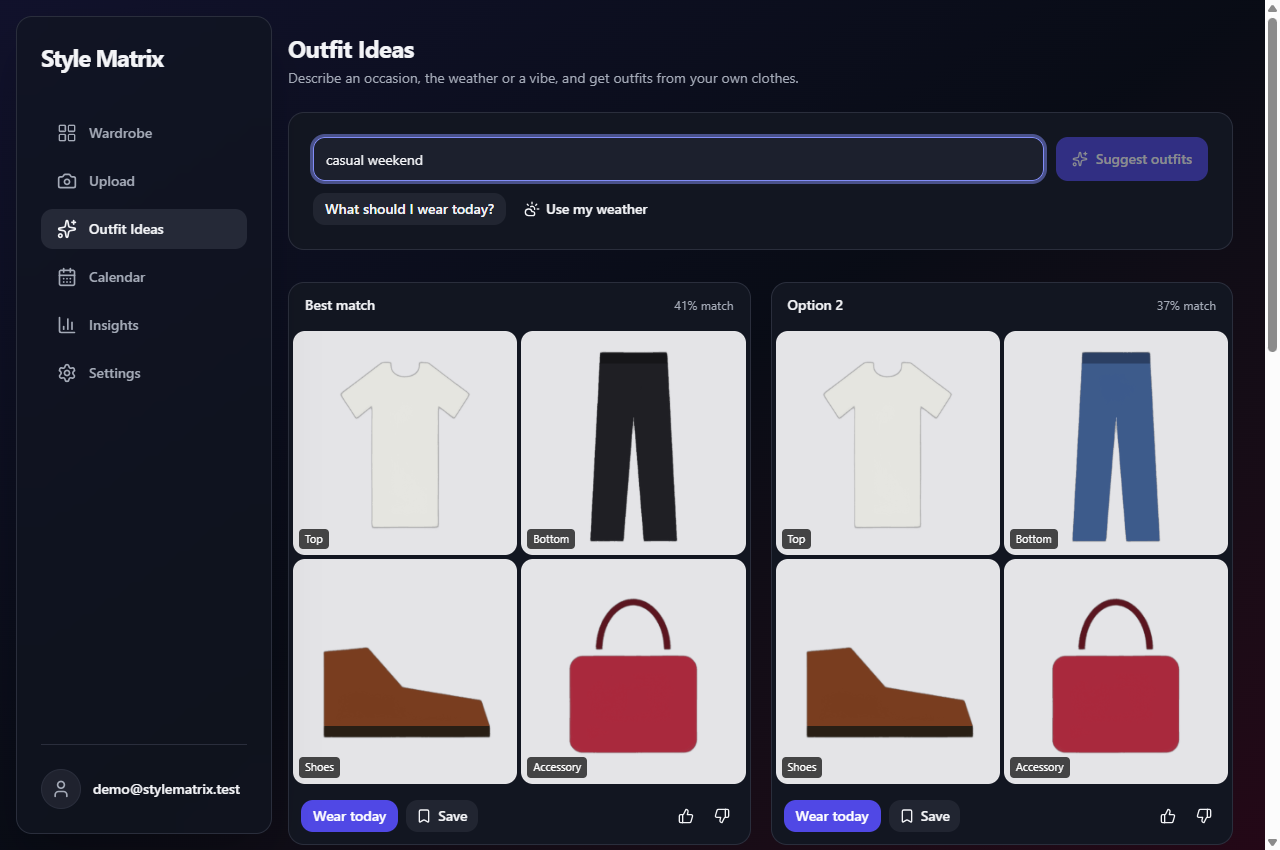
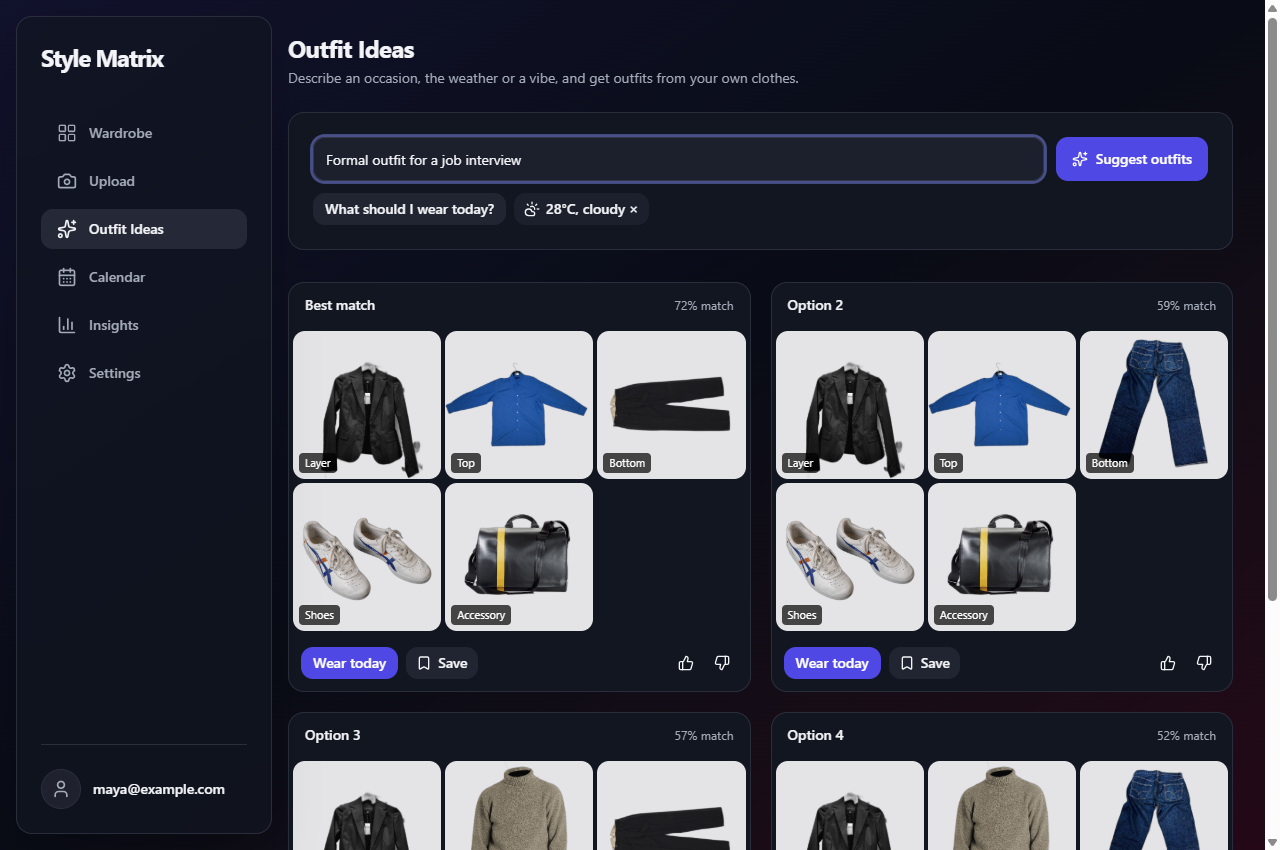
Rewrite the README around a real use case
Walk through one person's morning, from adding clothes to reviewing
insights, using screenshots with real clothing photos, and credit
each photo.

diff --git a/README.md b/README.md
@@ -2,12 +2,12 @@
 
 **An AI wardrobe assistant.** Photograph your clothes, and Style Matrix sorts them into categories, tracks what is in the wash, and suggests outfits from a plain-text prompt such as *"casual weekend"*.
 
-![Style Matrix outfit suggestions](docs/images/outfit-ideas.png)
+![Style Matrix suggesting outfits for a job interview](docs/images/outfit-ideas.png)
 
 ## Contents
 
 - [Features](#features)
-- [Screenshots](#screenshots)
+- [A day with Style Matrix](#a-day-with-style-matrix)
 - [Architecture](#architecture)
 - [How it works](#how-it-works)
 - [AI models](#ai-models)
@@ -19,6 +19,7 @@
 - [Deployment](#deployment)
 - [Training the models](#training-the-models)
 - [Known limitations](#known-limitations)
+- [Photo credits](#photo-credits)
 - [Contributors](#contributors)
 
 ## Features
@@ -39,35 +40,70 @@
 | **Works on phones** | The sidebar becomes a bottom navigation bar on small screens. |
 | **Accounts and profiles** | Email login and profile settings through Supabase. |
 
-## Screenshots
+## A day with Style Matrix
 
-The screenshots use simple drawn sample images, not real clothing photos.
+Maya has a job interview this morning and a closet full of clothes she barely remembers buying. Maya is a made-up example, but every result below is what the app really produced for these photos.
 
-### Sign in
+### 1. She adds her clothes
 
-![Sign in page](docs/images/login.png)
+Maya photographs 12 items and drops the photos in. Each one gets its background removed, is sorted into a category, and is added to her wardrobe, with progress shown for each photo.
 
-### Wardrobe
+![Photos being uploaded, with progress for each one](docs/images/upload.png)
 
-Items appear with their predicted category. Tabs switch between *Available* and *In the Wash*, and the buttons filter by type.
+### 2. Her closet is ready to browse
 
-![Wardrobe page](docs/images/wardrobe.png)
+Her clothes appear on clean, matching backgrounds. Tabs separate what's clean from what's in the wash, and the buttons filter by type.
 
-### Upload
+![Wardrobe page with clothes on clean backgrounds](docs/images/wardrobe.png)
 
-![Upload page](docs/images/upload.png)
+### 3. She fixes what the AI got wrong
 
-### Calendar
+The app labelled 8 of the 12 photos correctly on its first try. It called her blue jeans a skirt and her blue shirt a tee, for example. Fixing a label takes a few seconds, and it changes which outfits she gets. She can also add a price here, which is used to work out cost per wear.
 
-![Outfit calendar page](docs/images/calendar.png)
+![Correcting an item's category to Jeans](docs/images/edit-item.png)
 
-### Insights
+### 4. She asks what to wear
 
-![Wardrobe insights page](docs/images/insights.png)
+Maya types *"Formal outfit for a job interview"* and shares her weather, which is 28°C and cloudy. The best match is her blue shirt, black trousers and blazer. The blazer is there because the prompt calls for a layer. The sneakers are the only shoes she has added, so a suggestion can only be as good as the closet behind it.
 
-### Profile settings
+![Ranked outfit suggestions for a job interview](docs/images/outfit-ideas.png)
 
-![Profile settings page](docs/images/settings.png)
+### 5. She logs what she wears
+
+One tap on **Wear today** records the outfit, and **Undo** is there if she tapped it by mistake.
+
+![Message confirming the outfit was logged, with an Undo button](docs/images/wear-today.png)
+
+Those clothes move to *In the Wash* and stay out of suggestions for 5 days. If she washes something sooner, she can mark it as washed.
+
+![In the Wash tab with a Mark as washed button on each item](docs/images/in-the-wash.png)
+
+### 6. She looks back
+
+The calendar shows what she wore on each day, and her favourite combinations are one tap away as saved outfits.
+
+![Outfit calendar and saved outfits](docs/images/calendar.png)
+
+Insights show how she really uses her wardrobe. Her sneakers and white tee do most of the work, and one dress has never been worn.
+
+![Wardrobe insights](docs/images/insights.png)
+
+### Also in the app
+
+Maya can set a style profile that gently influences her suggestions, and switch it off at any time.
+
+![Profile settings](docs/images/settings.png)
+
+The whole app works on a phone, with a bottom navigation bar in place of the sidebar. Signing in looks like this:
+
+<p>
+  <img src="docs/images/phone-wardrobe.png" alt="Wardrobe page on a phone" width="260">
+  <img src="docs/images/login.png" alt="Sign in page" width="520">
+</p>
+
+### How these screenshots were made
+
+The screenshots come from the app running locally, with the real AI models and a live forecast from Open-Meteo. Login and photo storage used a local stand-in for Supabase. The clothes are openly licensed [stock photos](#photo-credits), not one person's wardrobe. The wear history and prices are sample data added for the example, so the calendar and insights have something to show.
 
 ## Architecture
 
@@ -527,13 +563,34 @@ python train_compatibility_model.py    # Train and save the model
 
 - **Recommendation accuracy:** given an outfit and 4 same-category options, the current compatibility model picks the right item about 58% of the time, against 25% by chance. That's probably optimistic, because `preprocess_items.py` mixes the train, validation and test outfits, and only about 23% of Polyvore items were embedded. A clean retrain is the biggest available improvement.
 - **Tuning:** the 60/40 scoring split and the 0.4 similarity cap are starting values and need testing with real wardrobes.
-- **Shoes and accessories:** the check that recognises them has only been tried on a few simple drawings, so wrong categories may be more common on real photos. They can be corrected on the wardrobe page. Older items keep their existing category.
+- **Category accuracy:** on the 12 photos in the walkthrough, 8 first labels were right, including the shoes and the bag. That's far too few photos to give a real accuracy figure, and wrong labels should be expected. They can be corrected on the wardrobe page. Older items keep their existing category.
 - **Influence of weather and profile:** these only nudge the text search, and they're not a fashion rule system. With a small wardrobe they may change the scores without changing the order.
 - **Match percentage:** it's a relative score for comparing outfits, not a calibrated probability.
 - **Full-body items:** they're only suggested when the prompt names one, such as "dress".
 - **Failed uploads:** photos that can't be processed stay in storage.
 - **Insights:** wears only count from when wear history was added, so earlier wears aren't included.
 - **Not built yet:** retraining from feedback, Google login, and password reset.
+
+## Photo credits
+
+The screenshots show these photos from [Wikimedia Commons](https://commons.wikimedia.org), resized and with their backgrounds removed. Each photo stays under its own licence, and the people credited haven't endorsed this project.
+
+| Photo | Credit | Licence |
+|---|---|---|
+| [White tee](https://commons.wikimedia.org/wiki/File:Ringflash_Tshirt_Blank_Template_(3214240974).jpg) | THOR | [CC BY 2.0](https://creativecommons.org/licenses/by/2.0) |
+| [Grey sweater](https://commons.wikimedia.org/wiki/File:Jersei-coll-alt.jpg) | Joan Rocaguinard | [CC BY-SA 3.0](https://creativecommons.org/licenses/by-sa/3.0) |
+| [Patterned sweater](https://commons.wikimedia.org/wiki/File:Dale_of_Norway_sweater.jpg) | Menswear Market | [CC BY 2.0](https://creativecommons.org/licenses/by/2.0) |
+| [Blue shirt](https://commons.wikimedia.org/wiki/File:Blue_Business_Shirt.jpg) | ChristianGlaeser | [CC BY-SA 3.0](https://creativecommons.org/licenses/by-sa/3.0) |
+| [Black blazer](https://commons.wikimedia.org/wiki/File:Blazer_(139219706).jpg) | hobvias sudoneighm | [CC BY 2.0](https://creativecommons.org/licenses/by/2.0) |
+| [Dark jeans](https://commons.wikimedia.org/wiki/File:501xx-back.jpg) | Tokunori | [CC BY-SA 4.0](https://creativecommons.org/licenses/by-sa/4.0) |
+| [Blue jeans](https://commons.wikimedia.org/wiki/File:Acne_Jeans_Nye_cowboybukser.jpg) | Jane Mejdahl | [CC BY-SA 2.0](https://creativecommons.org/licenses/by-sa/2.0) |
+| [Black trousers](https://commons.wikimedia.org/wiki/File:Cal%C3%A7a,_Acervo_do_Museu_Paulista_da_USP_(1).jpg) | José Rosael, Hélio Nobre, Museu Paulista da USP | [CC BY-SA 4.0](https://creativecommons.org/licenses/by-sa/4.0) |
+| [Red dress](https://commons.wikimedia.org/wiki/File:1949_Norman_Norell_red_silk_dress_with_cartridge_pleated_skirt_02.jpg) | Rhode Island School of Design Museum | [CC0](https://creativecommons.org/publicdomain/zero/1.0/) |
+| [Summer dress](https://commons.wikimedia.org/wiki/File:Japon_en_bolero_in_Brabants_bont,_objectnr_68711-1-2(2).JPG) | Museum Rotterdam | [CC BY-SA 3.0](https://creativecommons.org/licenses/by-sa/3.0) |
+| [Sneakers](https://commons.wikimedia.org/wiki/File:Paar_sneakers,_Onitsuka,_Tiger,_objectnr_91283-1-2.JPG) | Museum Rotterdam | [CC BY-SA 3.0](https://creativecommons.org/licenses/by-sa/3.0) |
+| [Leather bag](https://commons.wikimedia.org/wiki/File:Weekender4.jpg) | Jochen70 | [CC BY-SA 3.0](https://creativecommons.org/licenses/by-sa/3.0) |
+
+The screenshots that include the CC BY-SA photos are shared under the same licence terms.
 
 ## Contributors
 
